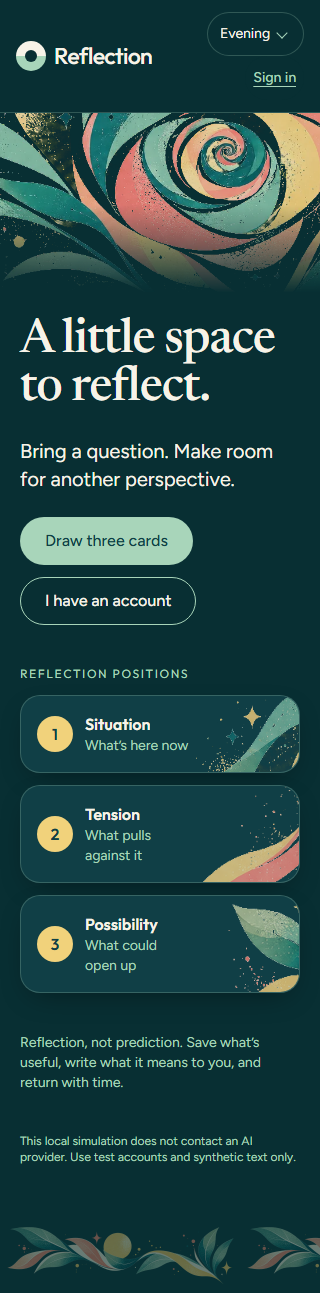
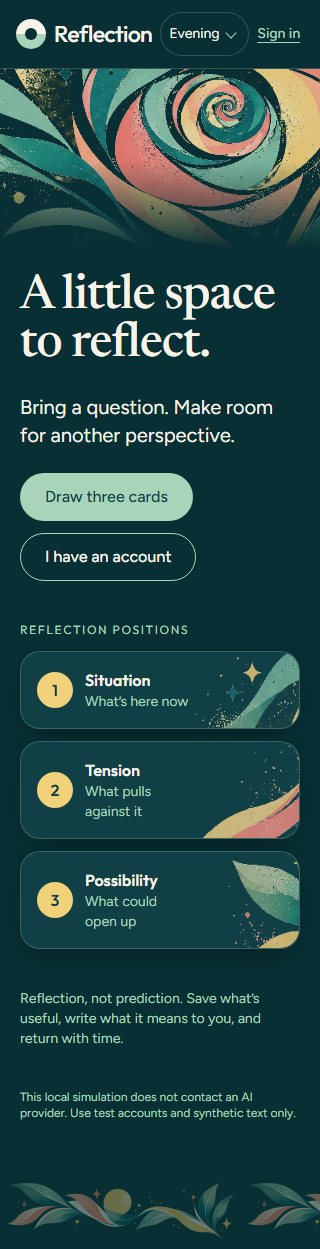
Docs: recapture the 320 px welcome and recovery screens
The signed-out header now fits on one row at 320 px, so the welcome
and /recover captures at 320 px change in Paper and Evening. Every
other capture came out byte-identical. DESIGN.md describes the narrow
header.

diff --git a/DESIGN.md b/DESIGN.md
@@ -260,7 +260,7 @@ Signed out, `/` is an invitation and `/sign-in` holds the sign-in controls. The 
 
 `/sign-in` puts the former welcome controls, unchanged, in a lifted card beside the inquiry study, under “Sign in or create an account”. Every other signed-out address, such as a saved reading or Account, shows sign-in in place, so the reader returns to the page they asked for. A signed-in reader who opens `/sign-in` lands on `/`. Navigation between these pages stays in the app, so Back and Forward work.
 
-At 760 px and below, the new-reading disclosures move beneath the fields and a compact botanical corner replaces the wide ribbon. At 390 px and below, the header tightens its spacing and the wordmark drops to 23 px. Keep history and dated notes in a single reading order. [Responsive layouts](src/client/style.css)
+At 760 px and below, the new-reading disclosures move beneath the fields and a compact botanical corner replaces the wide ribbon. At 390 px and below, the header tightens its spacing and the wordmark drops to 23 px. Below 360 px, a header that shows “Sign in” narrows the theme control’s and the link’s side padding, so the wordmark, theme control and link still share one row. Keep history and dated notes in a single reading order. [Responsive layouts](src/client/style.css)
 
 ## Elevation & Depth
 
